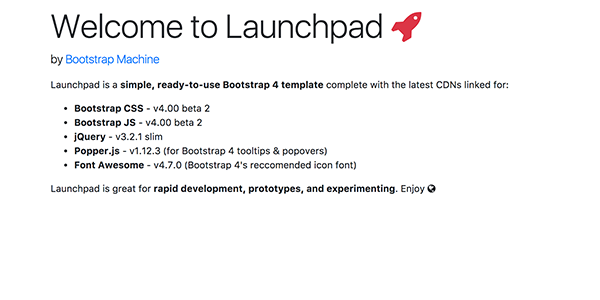
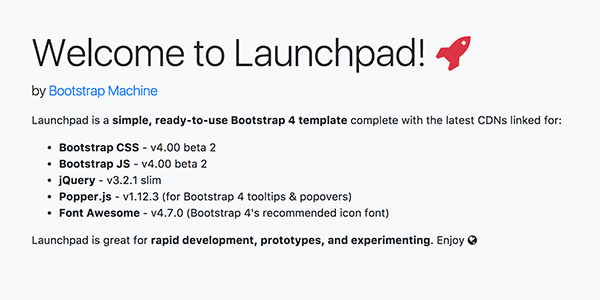
update gallery image for template 01

Changed region(s): [[0.03, 0.27, 0.93, 0.72], [0.03, 0.03, 0.81, 0.24], [0.06, 0.78, 0.81, 0.84]]

diff --git a/src/assets/gallery/01-launchpad/index.html b/src/assets/gallery/01-launchpad/index.html
@@ -1,5 +1,5 @@
 <!doctype html>
-<html lang="en">
+<html lang="en" class="bg-light">
   <head>
     <title>Launchpad!</title>
 
@@ -13,8 +13,8 @@
     <!-- Font Awesome CSS -->
     <link rel="stylesheet" href="https://maxcdn.bootstrapcdn.com/font-awesome/4.7.0/css/font-awesome.min.css">    
 </head>
-  <body>
-    <div class="container py-3">
+  <body class="bg-light">
+    <div class="container py-5">
         <h1 class="display-4">Welcome to Launchpad! <i class="fa fa-rocket text-danger" aria-hidden="true"></i></h1>
         <p class="lead">by <a href="https://bootstrapmachine.com">Bootstrap Machine</a></p>
         <p>Launchpad is a <strong>simple, ready-to-use Bootstrap 4 template</strong> complete with the latest CDNs linked for:</p>

diff --git a/src/app/dashboard/dashboard-gallery/dashboard-gallery.component.html b/src/app/dashboard/dashboard-gallery/dashboard-gallery.component.html
@@ -13,9 +13,9 @@
         <div class="col-md-4 col-sm-2">
 
             <div class="card">
-              <div class="image-holder">
+              <!-- <div class="image-holder"> -->
                 <img class="card-img-top" src="../assets/img/gallery/01.png" alt="Card image cap">
-              </div>
+              <!-- </div> -->
                 <div class="card-body">
                   <h4 class="card-title">Launchpad!</h4>
                   <p class="card-text">Super simple, CDN linked boilerplate template.</p>
